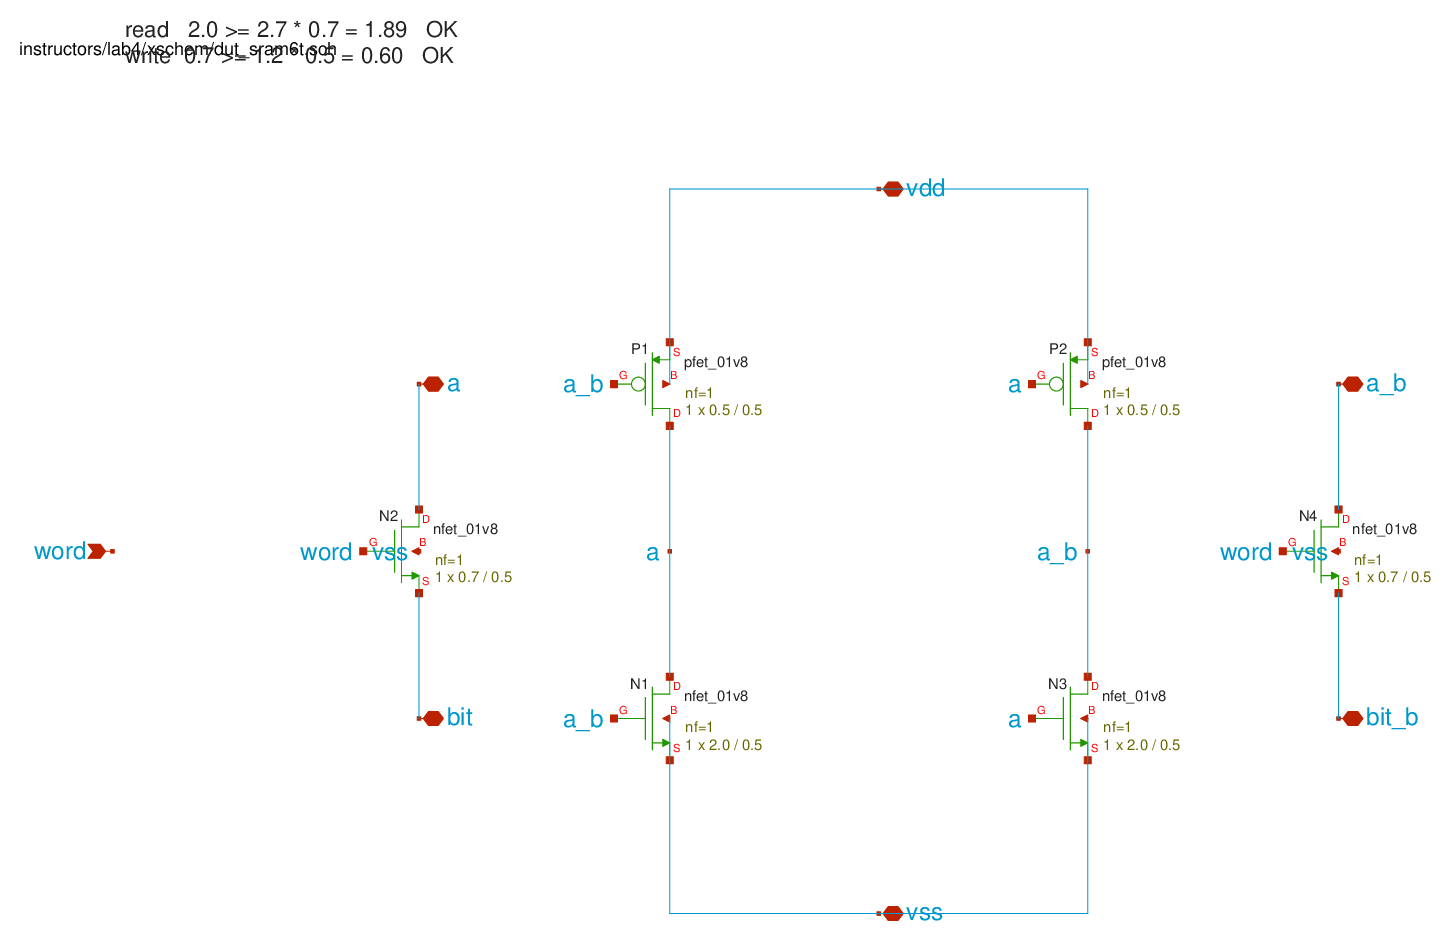
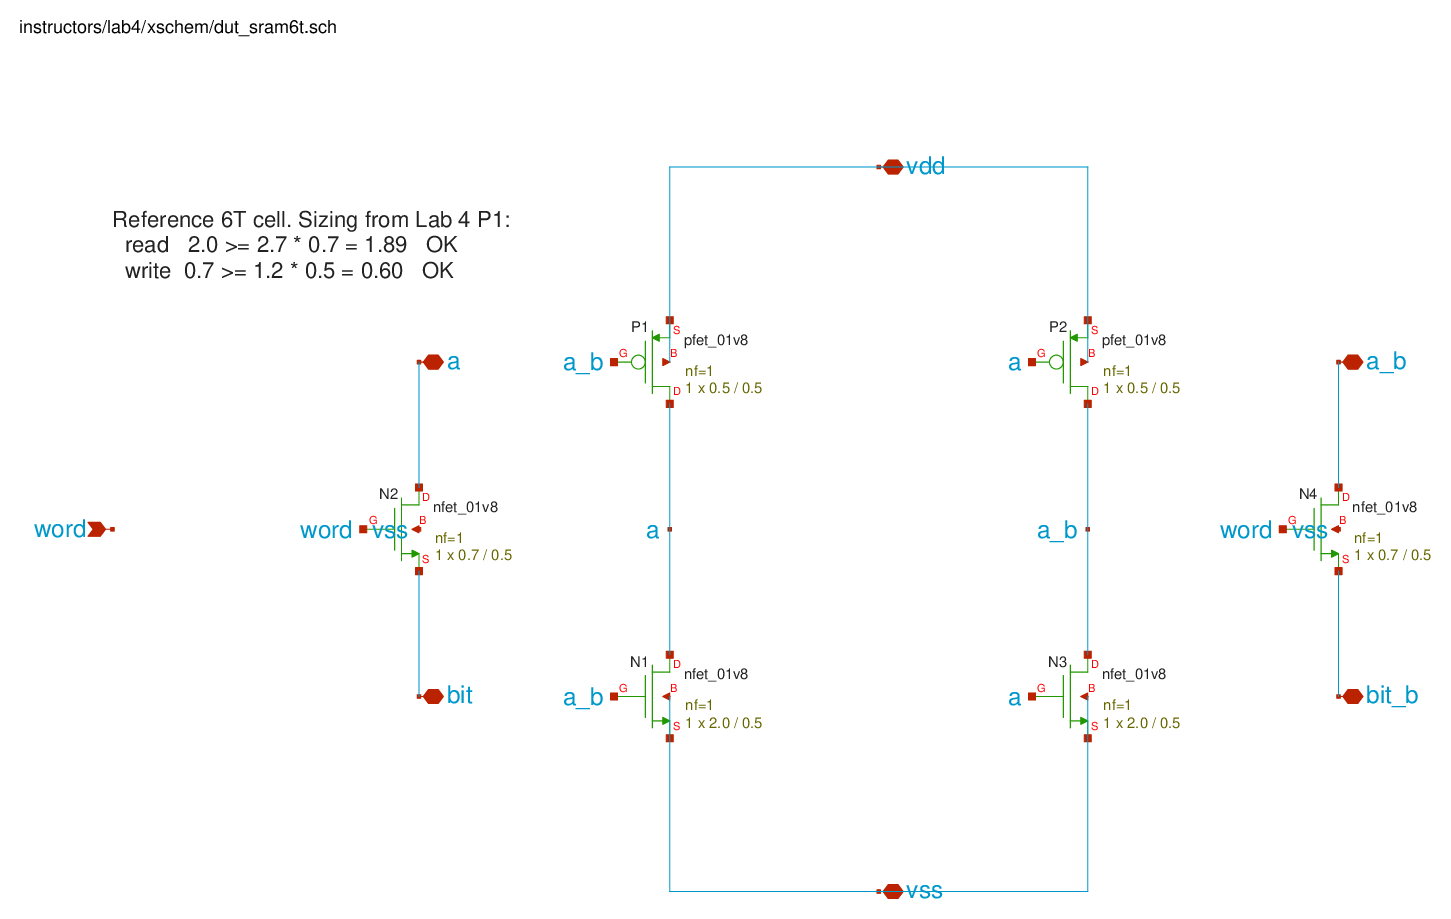
docs: correct the Lab 4 f_max expectation with the measured result
The manual said to expect the simulated clock limit "close to but not exactly"
the calculated 504 MHz. Measured, the reference path still captures at
TCLK = 4 ns and fails at 3 ns, so the real limit is 250-333 MHz -- around half.

The gap is not an error in either number, and the section now says why: t_setup
was measured with an ideal sharp-edged data source, while D2 arrives from four
inverters with a slow edge, and a slow edge needs more setup time. Also adds a
warning against the comparison that looks obvious and is wrong -- checking
whether Q2 agrees with Q1 at an instant, when Q2 lags by a full clock cycle by
construction.

diff --git a/docs/labs/lab4/index.md b/docs/labs/lab4/index.md
@@ -150,10 +150,31 @@ maximum clock frequency follows from the max-delay constraint:
 $$f_{max} = \frac{1}{t_{PCQ} + t_{logic} + t_{setup}}
 = \frac{1}{1.134 + 0.621 + 0.230\ \mathrm{ns}} = 504\ \mathrm{MHz}$$
 
-Then find it experimentally: reduce `TCLK` until DFF2 stops tracking DFF1, and
-compare against your calculation. Expect the simulated limit to be close to but
-not exactly the calculated one, and say which of the three terms you trust
-least.
+Then find it experimentally: reduce `TCLK` until DFF2 stops capturing, and
+compare against your calculation.
+
+!!! warning "Measure whether Q2 still *changes*, not whether it agrees with Q1"
+    Q2 reproduces Q1 delayed by a whole clock cycle, so comparing the two at
+    the same instant only measures that lag — it will call your slowest clock a
+    failure and your fastest one a success. What actually stops when the path
+    misses timing is that Q2 stops changing at all. The deck reports
+    `q2_swing` for exactly this reason.
+
+The reference build still captures at `TCLK` = 4 ns and fails at 3 ns, so the
+simulated limit is somewhere between **250 and 333 MHz** — around half the
+504 MHz the constraint predicts.
+
+That gap is the interesting part of this section, and it is not an error in
+either number. Both were measured under conditions the path does not meet:
+
+- $t_{setup}$ came from a flip-flop whose data input was driven by an ideal
+  source with a sharp edge. In the chain, D2 arrives from four inverters with a
+  real, slow edge, and a slow edge needs more setup time than a sharp one.
+- $t_{PCQ}$ was measured at one particular load.
+
+Say which of the three terms you trust least, and why. A prediction that is
+optimistic by a factor of two, for a reason you can name, is a better answer
+than one that happens to agree.
 
 ### L4 — Build the SRAM cell
 
